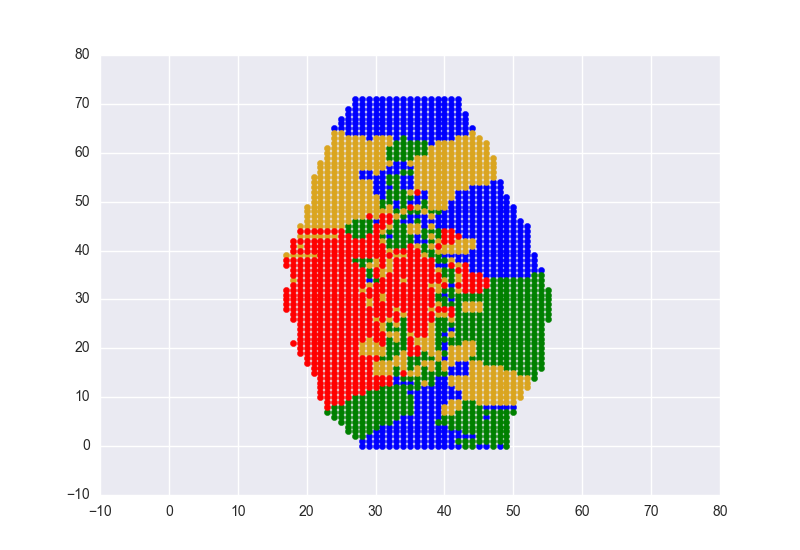
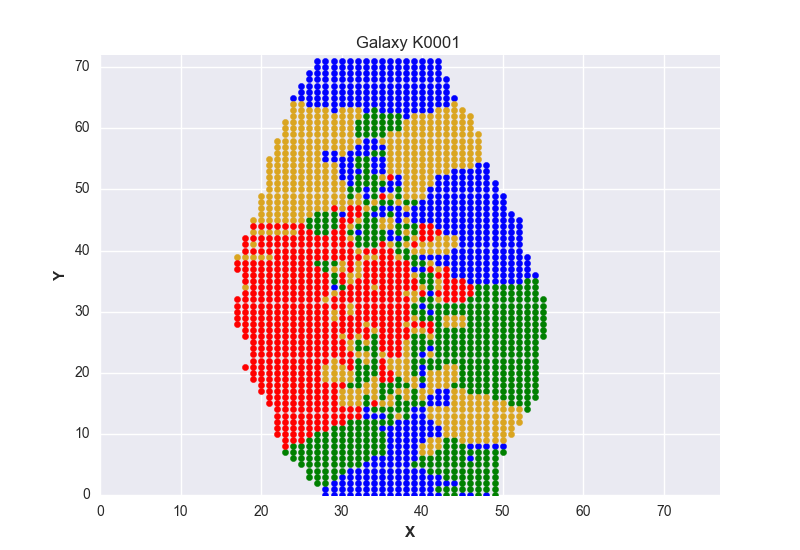
quase finalizando em granada 2

diff --git a/age_mass_alpha.py b/age_mass_alpha.py
@@ -60,8 +60,8 @@ mass = pd.read_csv('PatImages/mass.csv')
 halpha = pd.read_csv('Hamaps/halpha.csv')
 
 
-#for i_gal in range(len(age)):
-for i_gal in range(0,2):
+for i_gal in range(len(age)):
+#for i_gal in range(0,2):
     print(bcolors.FAIL +'-'*79+ bcolors.ENDC)
     print(bcolors.FAIL + '-'*33 + 'OBJETO: %s' %age['num_gal'][i_gal] + '-'*33 + bcolors.ENDC)
     print(bcolors.FAIL +'-'*79+ bcolors.ENDC)
@@ -74,11 +74,13 @@ for i_gal in range(0,2):
     plt.figure(1)
     plt.clf()
     cx = cubehelix.cmap(reverse=True, start=0., rot=-0.5)
-    #plt.axis([-10,80,80,-10])
+    plt.axis([0,77,0,72])
+    plt.xlabel('X',fontweight='bold')
+    plt.ylabel('Y',fontweight='bold')
     imgplot = plt.imshow(100*np.log10(img/255), cmap=cx)
     titulo='Galaxy %s ' %age['num_gal'][i_gal]
     plt.title(titulo)
-    plt.colorbar()
+    #plt.colorbar()
     figura = 'figures2/galaxy_%s' %age['num_gal'][i_gal]
     plt.savefig(figura)
 
@@ -131,7 +133,10 @@ for i_gal in range(0,2):
     plt.savefig('figures2/Distribution_4panel_gal_%s.png' %(age['num_gal'][i_gal]))
 
     plt.figure()
-    plt.axis([-10,80,-10,80])
+    plt.axis([0,77,0,72])
+    plt.xlabel('X', fontweight='bold')
+    plt.ylabel('Y', fontweight='bold')
+    plt.title(titulo)
     plt.scatter(pop1['x'],pop1['y'], color="blue")
     plt.scatter(pop2['x'],pop2['y'], color="green")
     plt.scatter(pop3['x'],pop3['y'], color="goldenrod")
